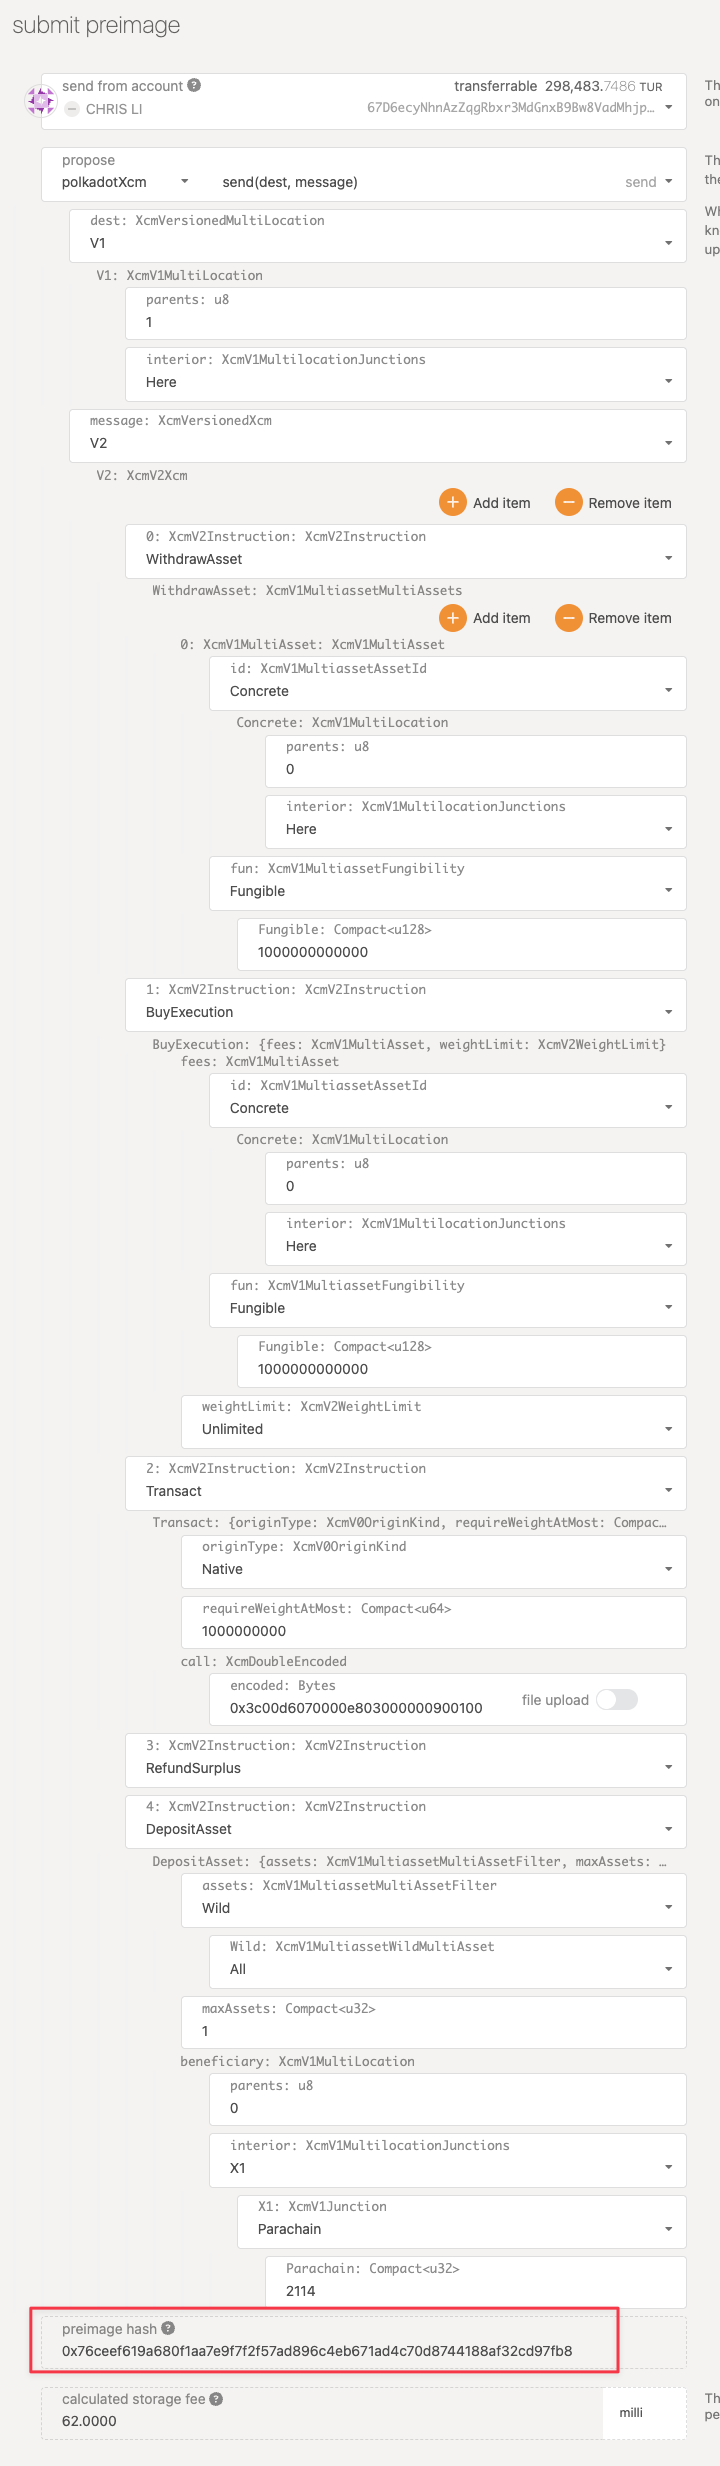
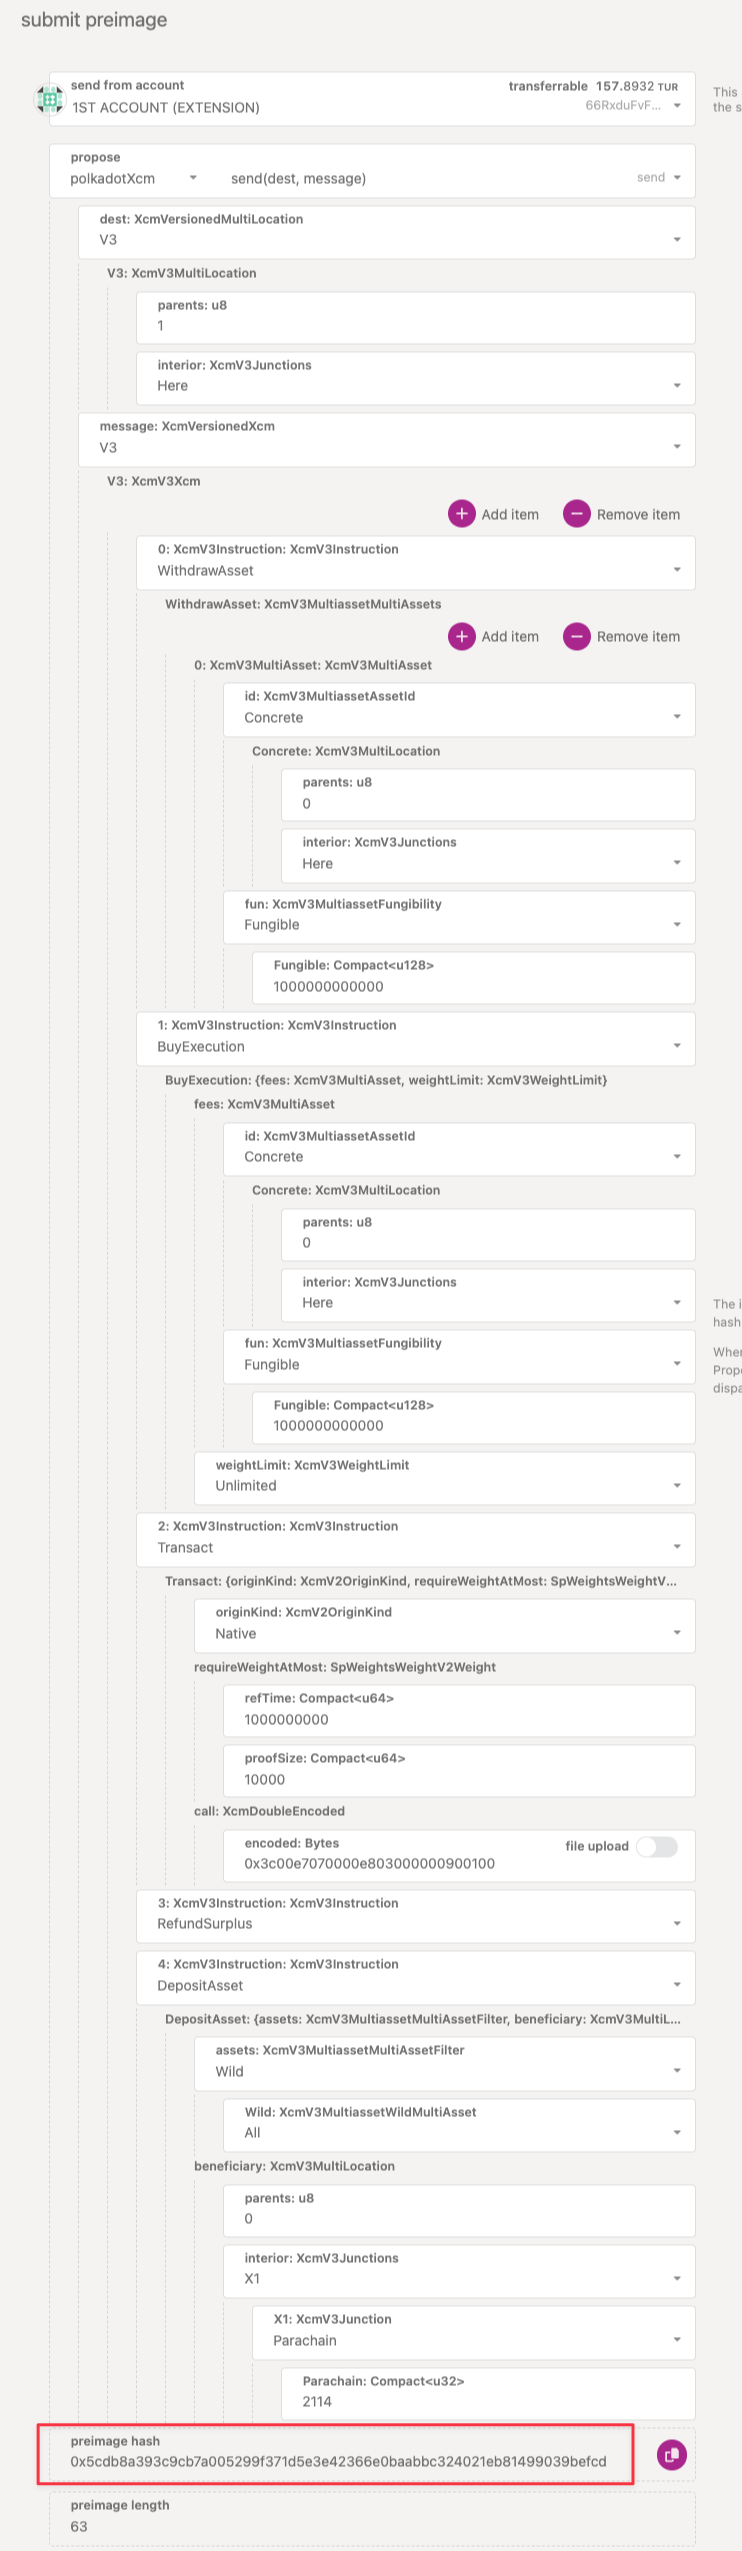
Updated instructions of establishing HRMP channel post-XCM v3

diff --git a/_docs/xcm/hrmp-channel.md b/_docs/xcm/hrmp-channel.md
@@ -7,15 +7,15 @@ date: 2022-12-12
 ---
 
 # About HRMP Channel
-An HRMP channel enables a one-way communication between two parachains. There are a few pre-requisites for a chain A to open a channel to chain B.
+An HRMP (Horizontal Relay Messaging Protocol) channel enables **bidirectional** communication between two parachains. In order for chain A to open a channel to chain B, there are a few prerequisites that must be met:
 
-First, both chains are already connected with the same relay chain such as Kusama.
+Firstly, both chains must already be connected to the same relay chain, such as Kusama.
 
-Second, once connected with the relay chain, a parachain can send XCM message to it, but not its other parachains. That’s why chain A needs to send requests to the relay chain, indicating that it wants to build a trusted channel with chain B.
+Secondly, once a parachain is connected to a relay chain, it can send XCM messages to the relay chain, but it cannot directly communicate with sibling parachains. This is why Chain A needs to submit requests to the relay chain, indicating its intention to establish a trusted channel with Chain B.
 
-Lastly, it takes two requests for a channel to establish. Taking A -> B channel as an example, A needs to call `hrmp.hrmpInitOpenChannel()` for the request, and then B needs to call `hrmp.hrmpAcceptOpenChannel()` to accept it. 
+Lastly, in order to establish a channel in one direction, two requests are necessary, one from the sender and the other from the recipient. As an example, for communication from parachain A to parachain B, A must call `hrmp.hrmpInitOpenChannel()` for the request, and B must then call `hrmp.hrmpAcceptOpenChannel()` to accept it.
 
-Note that depending on product usage, sometimes a one-way channel is sufficient between two parachains, but in order to build a two-way channel, another pair of init and accept calls in the opposite direction are required.
+Note that depending on product usage, sometimes a one-way channel is sufficient between two parachains, but in order to build a bidirectional channel, another pair of init and accept calls in the opposite direction are required.
 
 To checkout what channels have been established on Polkadot and Kusama, check out https://dotsama-channels.vercel.app/#/. A request channel is shown by a dashed red line while and accept request is a solid teal line.
 
@@ -47,7 +47,7 @@ hrmp.hrmpAcceptOpenChannel(sender: 2114)
   hrmpMaxParathreadInboundChannels: 0
   hrmpChannelMaxMessageSize: 102,400 <===
 ```
-> Besides the above two parameters, the **hrmpSenderDeposit** is also very important, as it states how many relay chain token deposit required for open the channel. On Rococo it is 0 ROC, but Polkadot takes 10 DOTs to open a channel and to accept it. Note that those funds need to be deposited into the parachain’s **sovereign account**.
+> Besides the above two parameters, the **hrmpSenderDeposit** is also very important, as it states how many relay chain token deposit required for open the channel. On Rococo it is 0 ROC, but Polkadot takes 10 DOTs to open a channel and to accept it. Note that those funds need to be deposited into the parachain’s **sovereign account** ([view on Subscan](https://kusama.subscan.io/parachain/2114)).
 
 Although we understand the two calls now, we cannot call them directly. Why? Because those two extrinsics a) happens on Rococo, and b) needs sudo privilege to call. Since none of the parachains has that permission they can’t use the `hrmp` extrinsic on Rococo directly. The way is to use `polkadotXcm.send` extrinsic from the parachain to send over the `hrmp` call as a payload.
 
@@ -60,32 +60,32 @@ The first step is to prepare an encoded call data for the payload. Here we are u
     - recipient: 2006
     - proposedMaxCapacity: 1000
     - proposedMaxMessageSize: 102400
-4. Copy and store the encoded call data for later, in this case 0x3c00d6070000e803000000900100
-5. Repeat step 1 to 4 to get the encoded call data for the hrmpAcceptOpenChannel.
+4. **Copy and store the encoded call data** 0x3c00d6070000e803000000900100 for later use.
+5. Repeat step 1 to 4 to get the encoded call data for the `hrmp.hrmpAcceptOpenChannel()`.
 ![hrmp.hrmpInitOpenChannel() Screenshot](../../../assets/img/hrmp-channel/hmrpInitOpenChannel.png)
 
 ## Send the encoded call via XCM
 Next, we explain how to send the payload via polkadotXcm pallet. Please make sure polkadot’s `pallet-xcm` pallet is integrated in your chain.
 
-If you have a **sudo** account on your chain, you could construct the below polkadotXcm.send() call right from it. However, since Turing Staging has removed sudo, we are using Governance to execute the call below.
+If you have a **sudo** account on your chain, you can use it to construct the 
+polkadotXcm.send() call. However, since Turing Staging has removed sudo, we are using Governance to execute the call. For quick access, here is a link to an [Encoded call data example for polkadotXcm.send()](https://polkadot.js.org/apps/?rpc=wss%3A%2F%2Frpc.turing.oak.tech#/extrinsics/decode/0x29000301000314000400000000070010a5d4e81300000000070010a5d4e800060002286bee419c383c00e7070000e803000000900100140d01000001000921)
 
 1. Open chain A’s [polkadot.js app](https://polkadot.js.org/apps).
 2. Navigate to Governance -> Democracy, and click on Submit preimage.
 3. Within submit preimage popup, select `polkadotXcm.send` with the below parameters, copy the **preimage hash**, and submit.
    - destination: V1 {XcmV1MultiLocation { parents: 1, interior: Here}}
    - message:
-     - V2 (or latest supported version)
-     - Add 5 instructions to the message
+     - V3 (or latest supported version)
+     - Add the below 5 instructions to the message
      - **WithdrawAsset**: {Concrete {0, Here}, Fungible {1000000000000}}
-        
-        The value is 1,000,000,000,000 units, or 1 ROC; 1 DOT or 1 KSM is sufficient to execute this, but the parachain’s sovereign account on the relay chain needs to be sufficiently funded.
+        The phrase `Concrete {0, Here}` refers to an asset native to the recipient, such as KSM on Kusama. The value is 1,000,000,000,000 units, or 1 KSM, which is enough to execute the XCM. Keep in mind that the parachain's sovereign account on the relay chain must be adequately funded.
      - **BuyExecution**: {Concrete {0, Here}, Fungible {1000000000000}, Unlimited}
         
         The number value is the same as that in WithdrawAsset
 
-     - **Transact**: {Native, 1000000000, <encoded_call_data>}
+     - **Transact**: {Native, (1000000000, 10000), <encoded_call_data>}
         
-        Use the encoded call data prepared above; the second parameter is max_weight, whose value is 1,000,000,000 and can’t be wrong.
+        Use the encoded call data prepared above; the second parameter is max_weight(refTime, proofSize), whose value is (1,000,000,000, 10,000) and can’t be wrong.
      - **RefundSurplus**
      - **DepositAsset**: {Wild {All}, 1, {parents: 0, interior: X1(Parachain(2114))}}
         
@@ -133,9 +133,26 @@ tokenDecimals: 10
 ```
 
 ## Turing Staging
-Parachain sovereign account: 5Ec4AhNzVAVwDR54oqgWQ5YSoPbxXathSrQqTmqkF5o7xe6y
+The below details can be viewed on [Rococo Subscan](https://rococo.subscan.io/parachain/2114).
+
+Sovereign Account (Rococo V1): `5Ec4AhNzVAVwDR54oqgWQ5YSoPbxXathSrQqTmqkF5o7xe6y`
+
+Sovereign Account (Turing Staging): `5Dt6dpkWPwLaH4BBCKJwjiWrFVAGyYk3tLUabvyn4v7KtESG`
+
[1 lines of base64/hex data omitted]
 
 ## Turing Network
[1 lines of base64/hex data omitted]
-[Turing open channel call](https://polkadot.js.org/apps/?rpc=wss%3A%2F%2Frpc.turing.oak.tech#/extrinsics/decode/0x29000101000214000400000000070088526a741300000000070088526a7400060003005ed0b2183c01dc070000140d010004000101007061726142080000000000000000000000000000000000000000000000000000) - do this call from sudo tab or via governance.
+The below details can be viewed on [Kusama Subscan](https://kusama.subscan.io/parachain/2114).
+
+Sovereign Account (Kusama): `F7fq1is7XWry4tWaYVZJ2uSwytCLFhsuEFarS7hit1chXtq`
+
+Sovereign Account (Turing Network): `67y2xkd8rZD7gapMM7EA8pug4rSvUCQjaoTm95mVEcTiR3w1`
+
[1 lines of base64/hex data omitted]
+
+[Encoded call data example for polkadotXcm.send()](https://polkadot.js.org/apps/?rpc=wss%3A%2F%2Frpc.turing.oak.tech#/extrinsics/decode/0x29000301000314000400000000070010a5d4e81300000000070010a5d4e800060002286bee419c383c00e7070000e803000000900100140d01000001000921)
+
+To perform this call, you can use the Sudo extrinsics of the Governance tab on Polkadot.js Apps interface.
+
+
 
